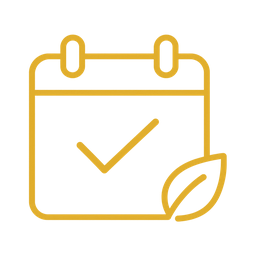
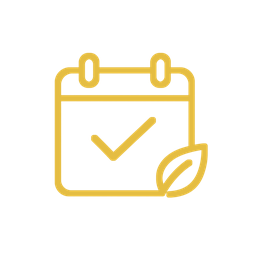
Page détail : galerie alignée en haut, pictogrammes plus lisibles, mise en page resserrée

Changed region(s): [[0.0938, 0.125, 0.9062, 0.875], [0.2812, 0.4375, 0.625, 0.6875]]

diff --git a/src/components/services/service-detail.tsx b/src/components/services/service-detail.tsx
@@ -60,6 +60,7 @@ export function ServiceDetailPage({ service }: { service: Service }) {
           id="vous-aimerez-aussi"
           title="Vous aimerez"
           accent="aussi"
+          compact
           items={related}
           {...relatedLayout[service.category]}
         />
@@ -77,7 +78,7 @@ function ServiceDetail({ service }: { service: Service }) {
 
   return (
     <section
-      className="relative isolate overflow-hidden bg-[#fff9ec] pb-16 pt-28 text-[#0d3a2f] sm:pb-20 sm:pt-32 lg:pb-24"
+      className="relative isolate overflow-hidden bg-[#fff9ec] pb-6 pt-28 text-[#0d3a2f] sm:pt-32 lg:pb-8"
       aria-labelledby="service-detail-title"
     >
       <div
@@ -95,9 +96,8 @@ function ServiceDetail({ service }: { service: Service }) {
       />
 
       <div className="mx-auto grid w-full max-w-[100rem] gap-10 px-5 sm:px-8 lg:grid-cols-[minmax(0,1.3fr)_minmax(0,1fr)] lg:gap-12 xl:gap-16 xl:px-12">
-        {/* Gallery: one large photo and two framed thumbnails; follows the scroll on desktop
-            when the booking box makes the text column taller. */}
-        <div className="hero-photo grid grid-cols-2 gap-3 self-start sm:gap-4 lg:sticky lg:top-32">
+        {/* Gallery: one large photo and two framed thumbnails, top-aligned with the breadcrumb. */}
+        <div className="hero-photo grid grid-cols-2 gap-3 self-start sm:gap-4">
           <figure className="col-span-2 aspect-[1.8/1] overflow-hidden border-2 border-[#d4af37]/80 bg-[#e8dcc8]">
             <img
               src={service.image.src}
@@ -133,7 +133,7 @@ function ServiceDetail({ service }: { service: Service }) {
 
           <h1
             id="service-detail-title"
-            className="mt-4 text-[clamp(2.1rem,8.6vw,3.25rem)] font-normal leading-[1.06] tracking-[-0.025em] lg:text-[clamp(2.5rem,3.3vw,3.6rem)]"
+            className="mt-3 text-[clamp(2.1rem,8.6vw,3.25rem)] font-normal leading-[1.06] tracking-[-0.025em] lg:text-[clamp(2.5rem,3.3vw,3.6rem)]"
           >
             <span className="block font-medium">{service.headline}</span>
             <em className="block pb-1 font-normal text-[#c09027]">{service.accent}</em>
@@ -143,19 +143,19 @@ function ServiceDetail({ service }: { service: Service }) {
             {service.hook}
           </p>
 
-          <span className="mt-5 block h-px w-full bg-[#d4af37]/45" aria-hidden="true" />
+          <span className="mt-4 block h-px w-full bg-[#d4af37]/45" aria-hidden="true" />
 
-          <p className="mt-5 text-pretty text-base leading-7 text-[#29443c] sm:text-[1.05rem] sm:leading-7">
+          <p className="mt-4 text-pretty text-base leading-7 text-[#29443c] sm:text-[1.05rem] sm:leading-7">
             {service.description}
           </p>
 
-          <dl className="mt-5 border-t border-[#d4af37]/35">
+          <dl className="mt-4 border-t border-[#d4af37]/35">
             <InfoRow icon={durationIcon} label="Durée" value={formatDuration(selected.minutes)} />
             <InfoRow icon={paymentIcon} label="Paiement" value="Sur place ou en ligne" />
             <InfoRow icon={cancellationIcon} label="Annulation" value="Gratuite jusqu’à 24 h avant" />
           </dl>
 
-          <div className="mt-6 overflow-hidden rounded-md border border-[#d4af37]/70 bg-[#fffdf8] shadow-[0_18px_40px_rgba(77,51,22,0.08)]">
+          <div className="mt-5 overflow-hidden rounded-md border border-[#d4af37]/70 bg-[#fffdf8] shadow-[0_18px_40px_rgba(77,51,22,0.08)]">
             {service.promotion && (
               <p className="bg-[#0d3a2f] px-5 py-2.5 text-center text-xs font-semibold uppercase tracking-[0.24em] text-[#e5bd42]">
                 Offre du moment · {service.promotion}
@@ -168,14 +168,14 @@ function ServiceDetail({ service }: { service: Service }) {
                   <legend className="mb-3 text-xs font-semibold uppercase tracking-[0.2em] text-[#40574f]">
                     Choisissez votre formule
                   </legend>
-                  <div className="grid gap-2">
+                  <div className="grid gap-2 sm:grid-cols-2">
                     {service.variants.map((option, index) => {
                       const isSelected = index === selectedIndex
                       return (
                         <label
                           key={`${option.label}-${option.minutes}`}
                           className={cn(
-                            'flex cursor-pointer items-center gap-3 rounded-sm border px-4 py-3 transition-[border-color,background-color] duration-150 ease-out',
+                            'flex cursor-pointer items-center gap-3 rounded-sm border px-3.5 py-2 transition-[border-color,background-color] duration-150 ease-out',
                             isSelected
                               ? 'border-[#c09027] bg-[#fff6e3]'
                               : 'border-[#d4af37]/30 hover:border-[#d4af37]/70',
@@ -188,11 +188,11 @@ function ServiceDetail({ service }: { service: Service }) {
                             checked={isSelected}
                             onChange={() => setSelectedIndex(index)}
                           />
-                          <span className="min-w-0 flex-1 text-sm text-[#173c32] sm:text-base">
+                          <span className="min-w-0 flex-1 text-sm leading-snug text-[#173c32]">
                             {option.label}
-                            <span className="text-[#40574f]"> · {formatDuration(option.minutes)}</span>
+                            <span className="block text-xs text-[#40574f]">{formatDuration(option.minutes)}</span>
                           </span>
-                          <span className="text-sm font-semibold text-[#0d3a2f] sm:text-base">
+                          <span className="text-sm font-semibold text-[#0d3a2f]">
                             {formatPrice(option.promoPrice ?? option.price)}
                           </span>
                         </label>
@@ -202,7 +202,7 @@ function ServiceDetail({ service }: { service: Service }) {
                 </fieldset>
               )}
 
-              <p className={cn('flex items-baseline gap-3', hasOptions && 'mt-5')} aria-live="polite">
+              <p className={cn('flex items-baseline gap-3', hasOptions && 'mt-4')} aria-live="polite">
                 <span className="font-heading text-[2.6rem] font-medium leading-none text-[#0d3a2f] sm:text-5xl">
                   {formatPrice(finalPrice)}
                 </span>
@@ -232,12 +232,12 @@ function ServiceDetail({ service }: { service: Service }) {
 
 function InfoRow({ icon, label, value }: { icon: string; label: string; value: string }) {
   return (
-    <div className="flex items-center gap-4 border-b border-[#d4af37]/35 py-2.5">
+    <div className="flex items-center gap-4 border-b border-[#d4af37]/35 py-2">
       <span
-        className="grid size-10 shrink-0 place-items-center rounded-full bg-[#fff6e3] ring-1 ring-[#d4af37]/40"
+        className="grid size-10 shrink-0 place-items-center rounded-full bg-[#0d3a2f] shadow-[inset_0_1px_0_rgba(255,255,255,0.13),0_4px_10px_rgba(13,58,47,0.18)] ring-1 ring-[#d4af37]/65"
         aria-hidden="true"
       >
-        <img src={icon} alt="" className="size-6 object-contain" />
+        <img src={icon} alt="" className="size-[1.45rem] object-contain" />
       </span>
       <dt className="font-semibold text-[#0d3a2f]">{label}</dt>
       <dd className="ml-auto text-right text-[#29443c]">{value}</dd>

diff --git a/src/components/services/service-menu-section.tsx b/src/components/services/service-menu-section.tsx
@@ -32,6 +32,7 @@ export function ServiceMenuSection({
   variant = 'plain',
   ctaLabel = 'En savoir plus',
   decor,
+  compact = false,
 }: {
   id: string
   title?: string
@@ -47,13 +48,18 @@ export function ServiceMenuSection({
   ctaLabel?: string
   // Page-specific DecorObject elements.
   decor?: ReactNode
+  // Tighter top spacing, for a follow-up section right under other content.
+  compact?: boolean
 }) {
   const isCard = variant === 'card'
 
   return (
     <section
       id={id}
-      className="relative isolate scroll-mt-24 overflow-hidden bg-[#fff9ec] py-16 text-[#0d3a2f] sm:scroll-mt-28 sm:py-24 lg:py-28 xl:py-32"
+      className={cn(
+        'relative isolate scroll-mt-24 overflow-hidden bg-[#fff9ec] py-16 text-[#0d3a2f] sm:scroll-mt-28 sm:py-24 lg:py-28 xl:py-32',
+        compact && 'pt-8 sm:pt-10 lg:pt-10 xl:pt-12',
+      )}
       aria-labelledby={`${id}-title`}
     >
       <div
